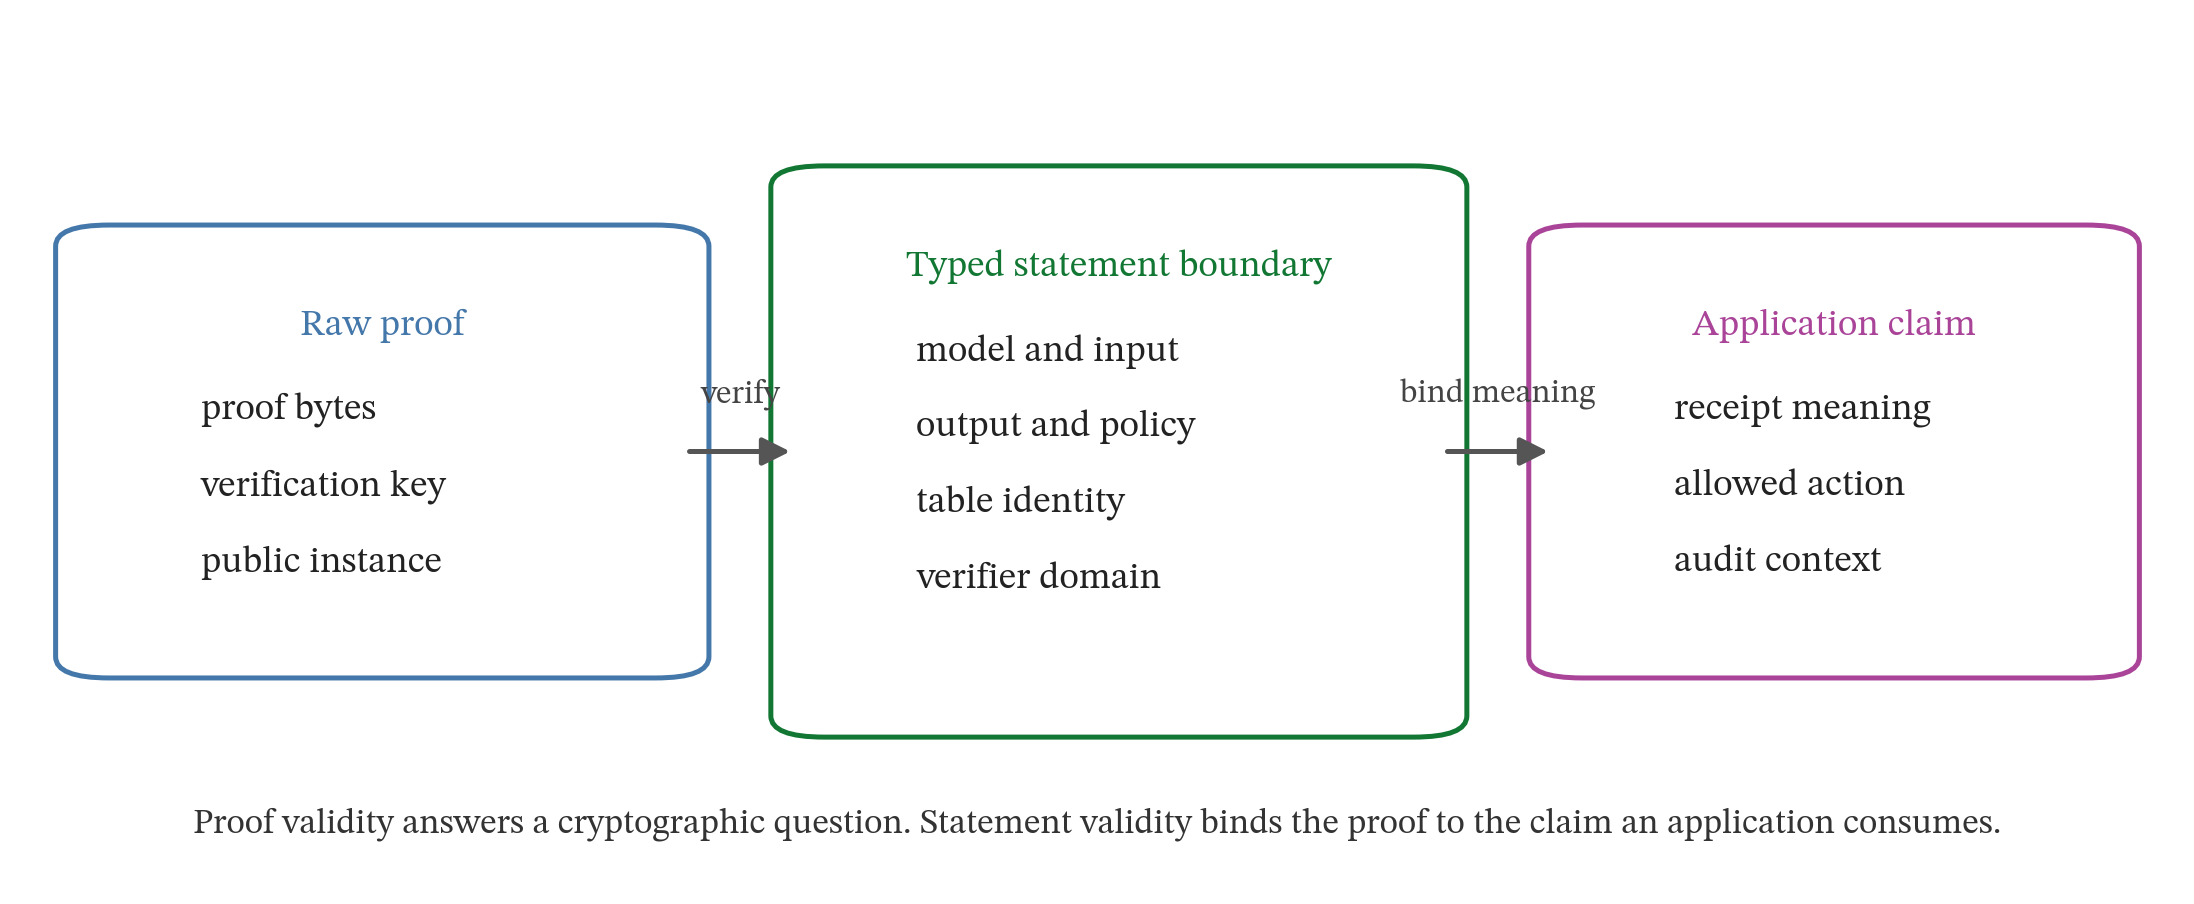
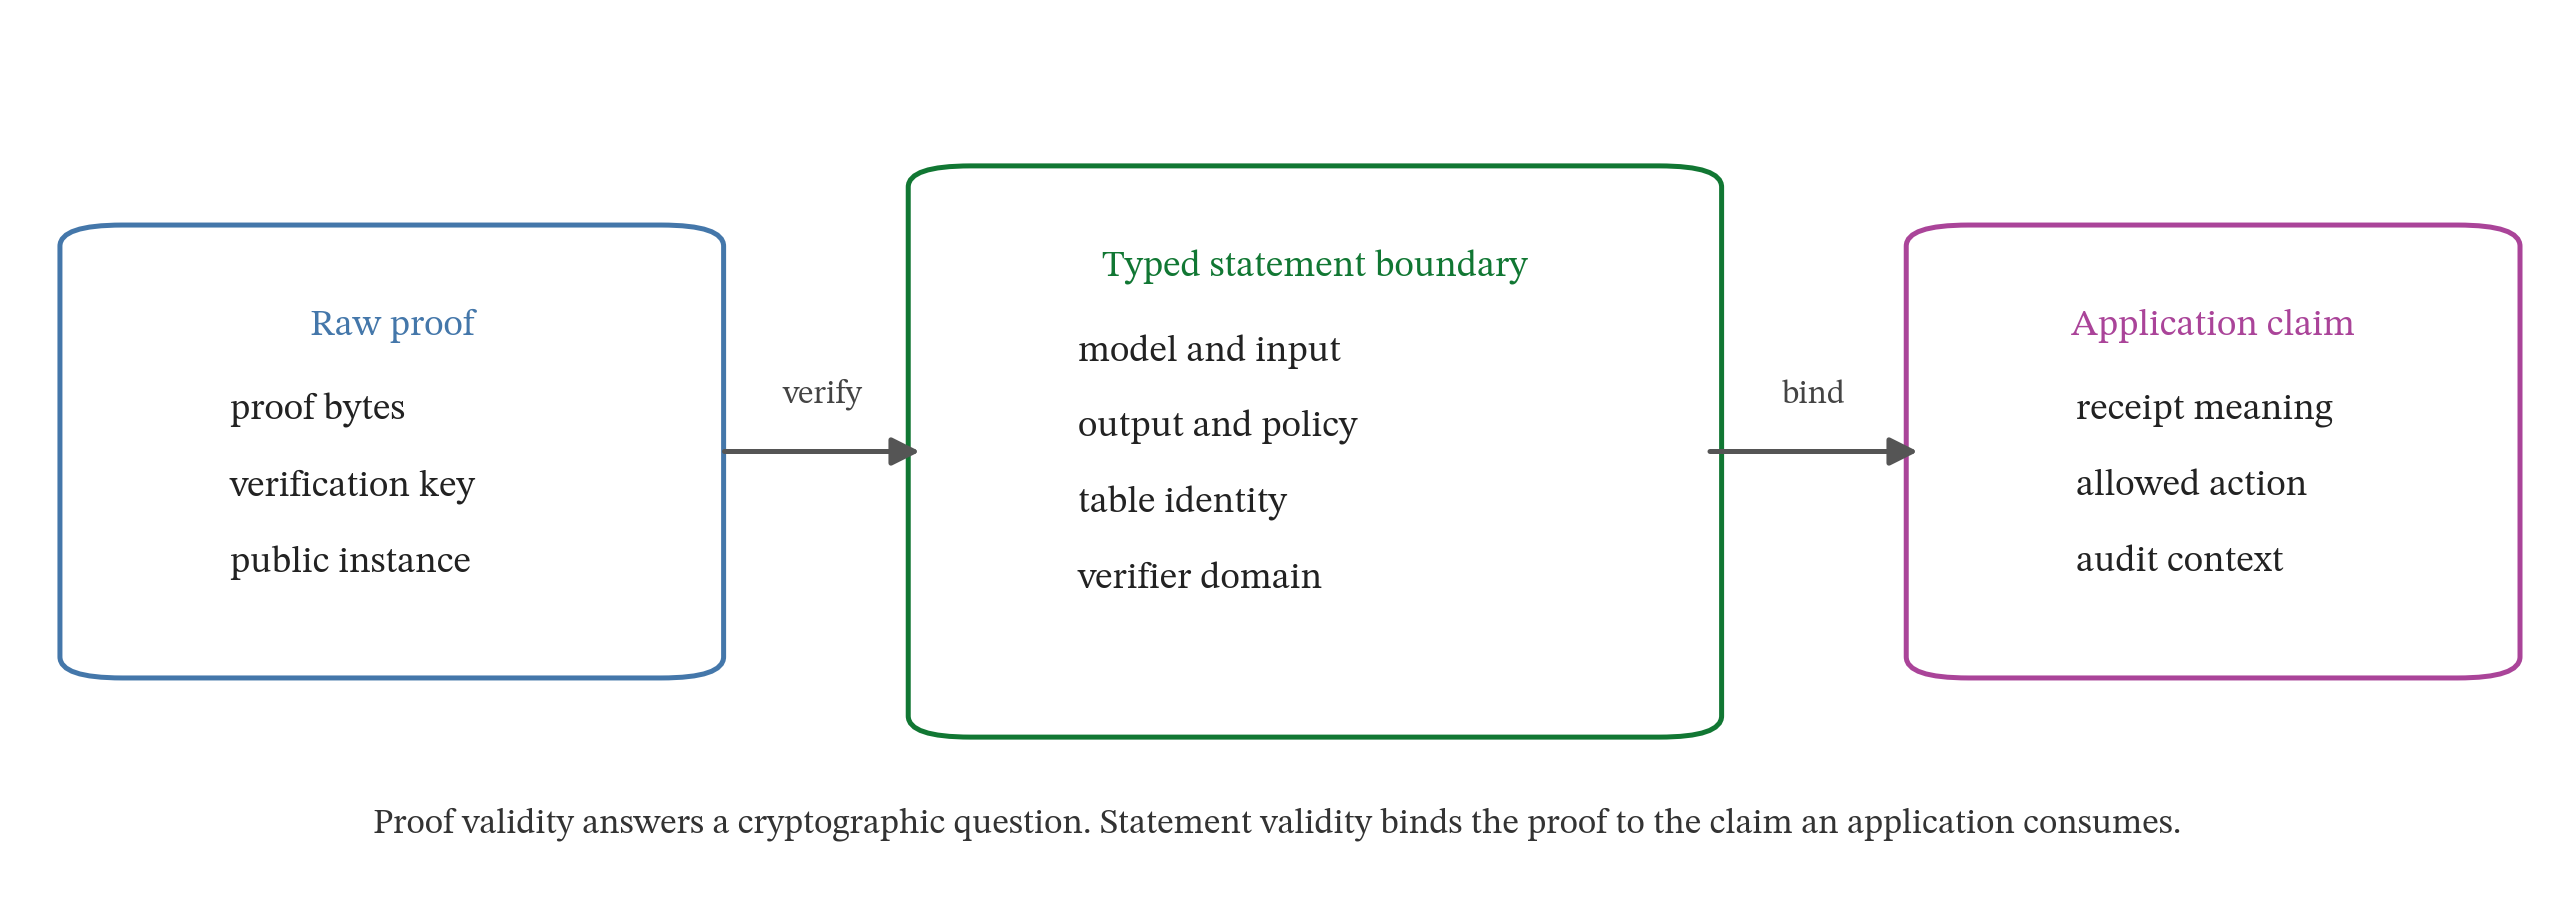
Improve statement-validity figure layout

diff --git a/scripts/paper/generate_zkml_statement_validity_figure.py b/scripts/paper/generate_zkml_statement_validity_figure.py
@@ -93,7 +93,7 @@ def normalize_svg(path: Path) -> None:
 
 
 def main() -> None:
-    fig, ax = plt.subplots(figsize=(7.2, 2.9), constrained_layout=True)
+    fig, ax = plt.subplots(figsize=(8.4, 2.9), constrained_layout=True)
     ax.set_xlim(0, 1)
     ax.set_ylim(0, 1)
     ax.axis("off")
@@ -101,7 +101,7 @@ def main() -> None:
     add_box(
         ax,
         (0.03, 0.25),
-        0.27,
+        0.23,
         0.5,
         "Raw proof",
         ["proof bytes", "verification key", "public instance"],
@@ -109,7 +109,7 @@ def main() -> None:
     )
     add_box(
         ax,
-        (0.365, 0.18),
+        (0.37, 0.18),
         0.29,
         0.64,
         "Typed statement boundary",
@@ -118,16 +118,16 @@ def main() -> None:
     )
     add_box(
         ax,
-        (0.72, 0.25),
-        0.25,
+        (0.77, 0.25),
+        0.21,
         0.5,
         "Application claim",
         ["receipt meaning", "allowed action", "audit context"],
         "#AA4499",
     )
 
-    add_arrow(ax, (0.305, 0.5), (0.36, 0.5), "verify")
-    add_arrow(ax, (0.66, 0.5), (0.715, 0.5), "bind meaning")
+    add_arrow(ax, (0.275, 0.5), (0.36, 0.5), "verify")
+    add_arrow(ax, (0.67, 0.5), (0.76, 0.5), "bind")
 
     ax.text(
         0.5,
